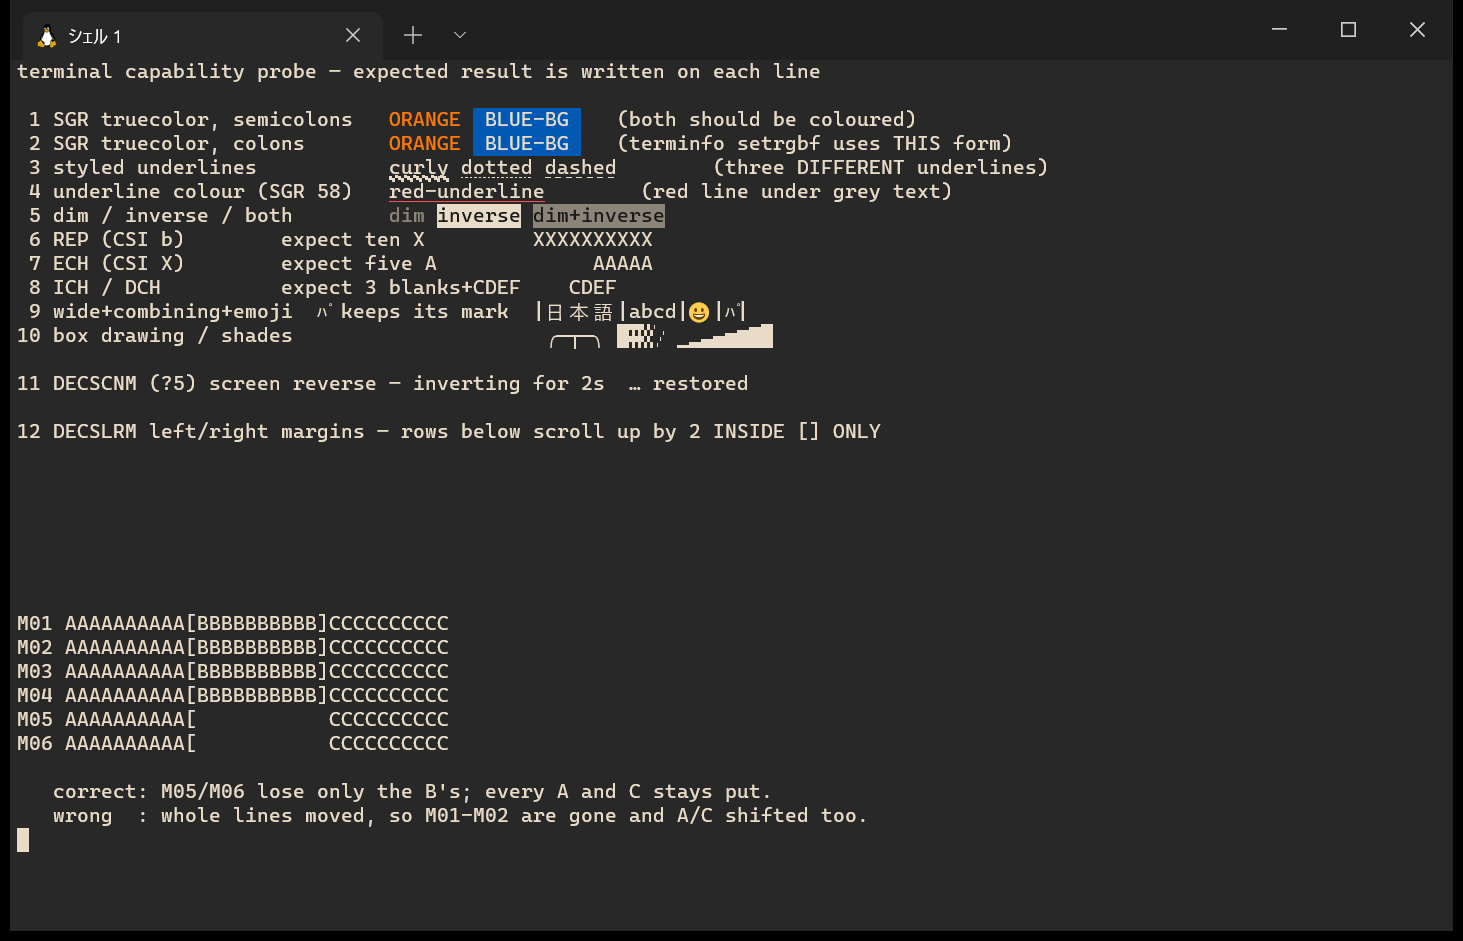
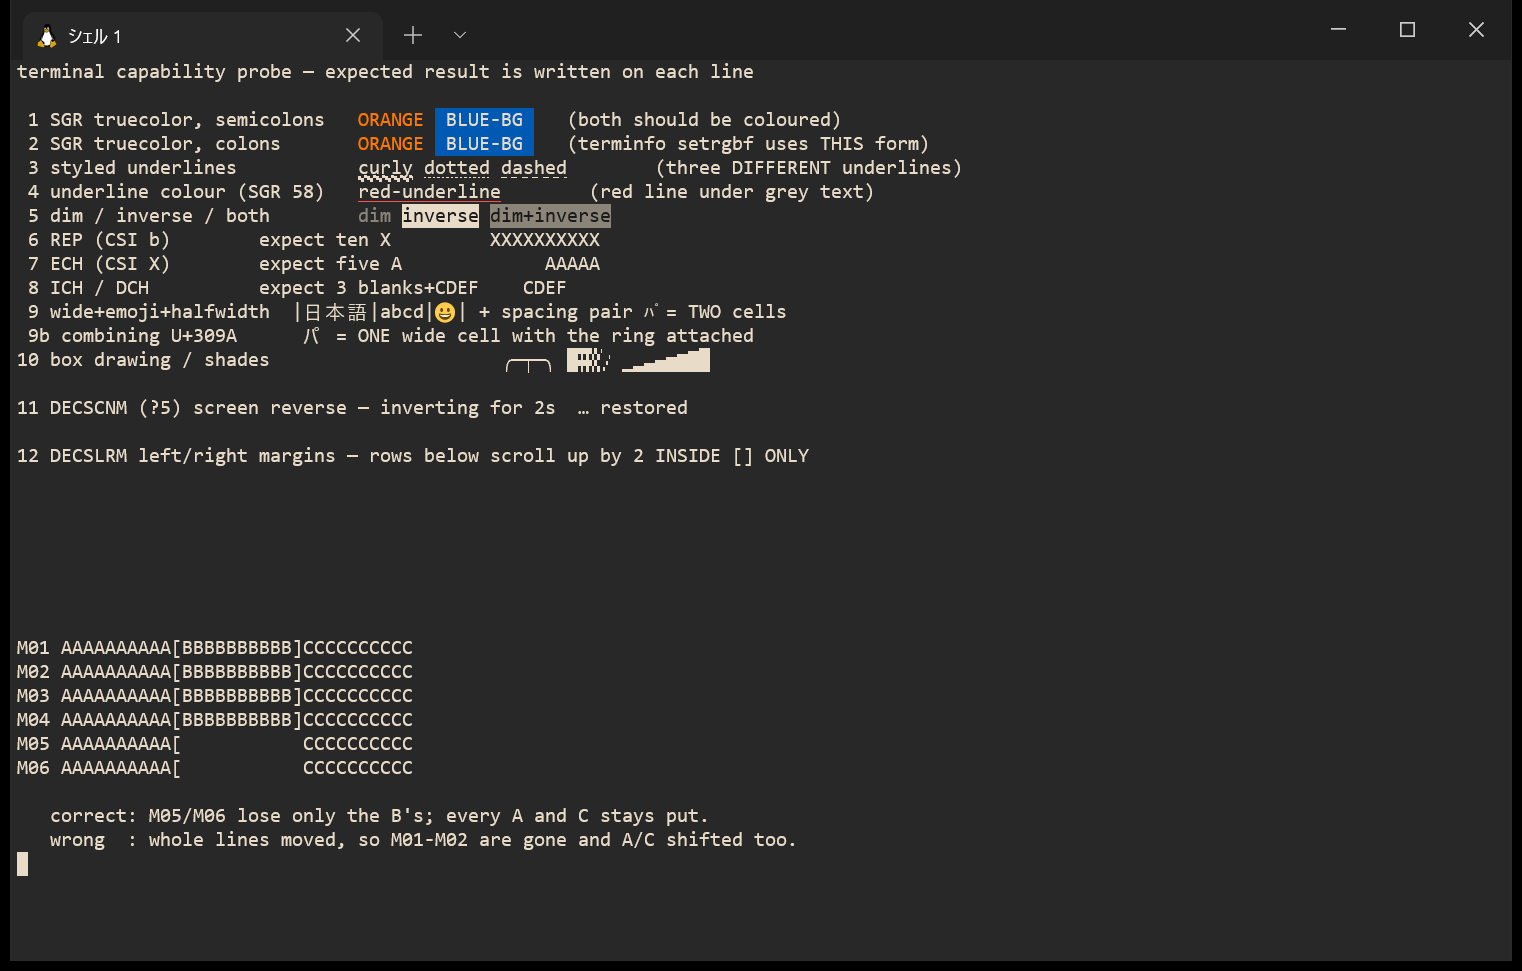
fix(compat): the combining-mark test never tested a combining mark
The probe's row 9 was titled "wide+combining+emoji" but sent U+FF8A U+FF9F —
and U+FF9F is the HALF-WIDTH semi-voiced mark, a spacing character. Every
verdict recorded against that row judged a test that did not exist:
"mark dropped" for Windows Terminal, "composed" for the others, all
describing how implementations render two narrow spacing glyphs.

The probe now carries both cases explicitly and separately: the spacing pair
(correct = two narrow cells side by side) and a true combining mark, ハ +
U+309A (correct = one wide cell with the ring attached). Re-run under the
corrected probe, Windows Terminal and RikkaTerminal render both correctly.
The old "mark dropped" reading was wrong twice over — wrong test, and wrong
reading of the pixels: WT draws the half-width ring small and high, where a
glance registers nothing.

The table splits row 9 accordingly, with SGR-58 pixel counts confirming the
re-shot captures regressed nothing (143 px rikka, 182 px wt — identical to
the previous shots). The four captures that predate the split are marked as
describing the spacing pair only. Rio's aside gains the quirk that prompted
all of this: it stacks the spacing ring on top of the ﾊ as though combining,
on both hosts alike.

Assisted-by: multi-agent-shogun-aki-tweak

Changed region(s): [[0.0, 0.0308, 0.7075, 0.4931], [0.0, 0.6472, 0.3076, 0.8013], [0.0308, 0.8321, 0.5844, 0.8937]]

diff --git a/docs/compat/README.md b/docs/compat/README.md
@@ -114,10 +114,25 @@ this machine.
 | 6 | REP (`CSI b`) | yes | yes | yes |
 | 7 | ECH (`CSI X`) | yes | yes | yes |
 | 8 | ICH / DCH | yes | yes | yes |
-| 9 | Wide chars, combining marks, emoji | mark dropped from `ﾊﾟ` | composed | composed |
+| 9 | Wide chars, half-width pair `ﾊ`+`ﾟ`, emoji | yes (ring small and high) | side by side | side by side |
+| 9b | Combining mark (`ハ`+U+309A → パ) | yes | *not re-run* | yes |
 | 10 | Box drawing and shade blocks | font glyphs | font glyphs | drawn as geometry |
 | 11 | DECSCNM (`?5`) screen reverse | yes | yes | yes |
 | 12 | DECSLRM left/right margins | yes | yes | yes |
+
+Row 9 has a correction to own up to. The probe's original line was titled
+"wide+combining+emoji" but sent `U+FF8A U+FF9F` — the HALF-WIDTH semi-voiced
+mark, which is a *spacing* character. Nothing combining was ever tested, and
+the verdicts written against it ("mark dropped" for Windows Terminal,
+"composed" for the rest) judged a test that did not exist. The probe now
+carries both cases explicitly: the spacing pair, whose correct rendering is
+two narrow cells side by side, and a true combining mark (`ハ` + U+309A),
+whose correct rendering is one wide cell with the ring attached. Re-run
+under the corrected probe, Windows Terminal and RikkaTerminal both render
+both correctly — including Windows Terminal's half-width ring, which is
+drawn small and high and had been misread as dropped. The wezterm, ghostty,
+alacritty and rio captures predate the split; their row-9 entries describe
+the spacing pair only.
 
 Rows 1, 2 and 4 are colour claims, so they were checked by sampling pixels
 rather than by eye. The SGR 58 underline is the clearest: the probe asks for
@@ -370,6 +385,10 @@ host always strips it, yet the margin block comes out **correct** — the 2024
 host applied DECSLRM itself and handed rio pre-fenced output. Same binary,
 opposite verdicts on rows 2/3/4 and row 12, purely from which host sat in
 between.
+
+One quirk is rio's own and host-independent: the half-width pair `ﾊ`+`ﾟ`
+(two spacing characters, two cells) comes out with the ring **stacked on top
+of the `ﾊ`** as though it were a combining mark, on both hosts alike.
 
 Capture notes: `-e` and every custom `[shell]` config exit instantly in this
 build, so both probes were typed into the default shell by hand; the
